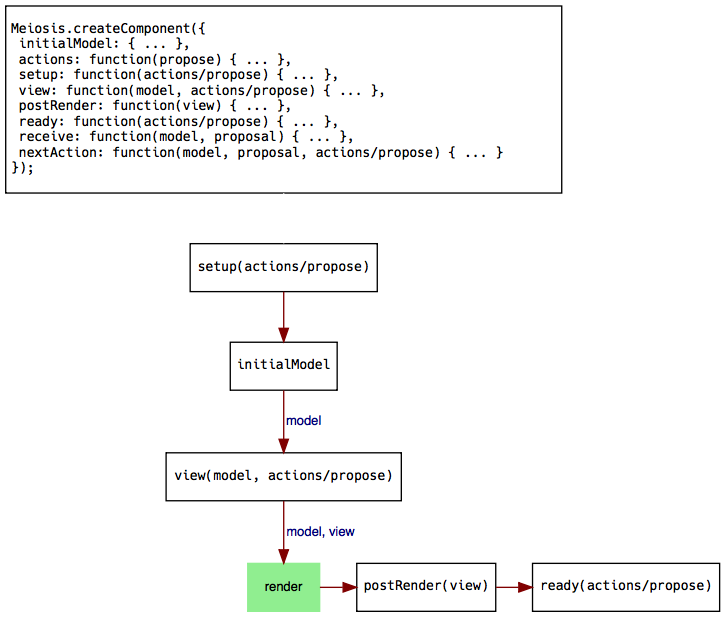
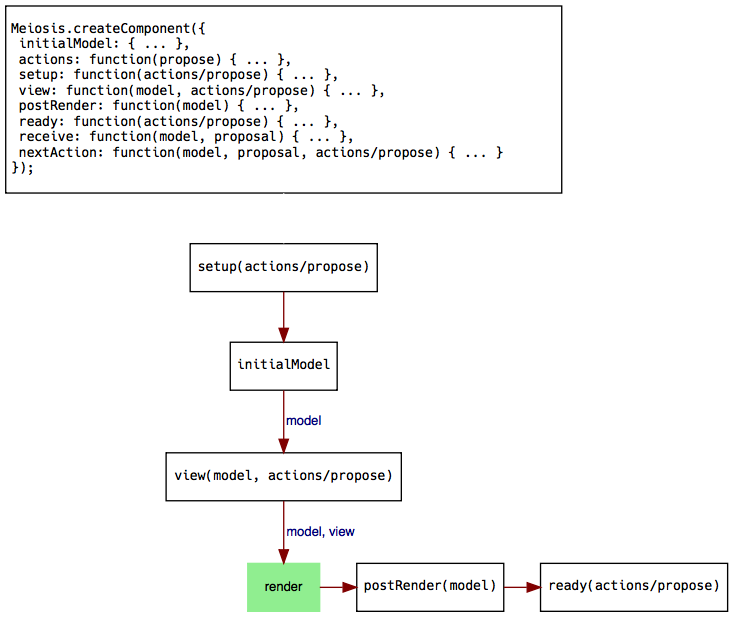
Update postRender documentation.

diff --git a/post_render_functions.md b/post_render_functions.md
@@ -1,6 +1,6 @@
 # The Post Render Function
 
-Sometimes, you might need to run some code after every render of the view. This is probably rare when using virtual DOM libraries, or reactive template libraries. They usually have their own hooks or other mechanisms for that purpose. But if you are using plain HTML or templating engine, or for any other reason you may need to run code after each render, Meiosis accepts the `postRender` function. Specify your function using the `postRender` property when calling `createComponent`, and Meiosis will call it after each render.
+Sometimes, you might need to run some code after every render of the view. If you are using plain HTML or a templating engine, you may need to run some extra code on the DOM elements. This is probably rare when using virtual DOM libraries, or reactive template libraries. They usually have their own hooks or other mechanisms for that purpose. But you may still need to run code for other reasons, such as opening a modal dialog. For these or any other reasons that you may need to run code after each render, Meiosis accepts the `postRender` function. Specify your function using the `postRender` property when calling `createComponent`, and Meiosis will call it after each render, passing in the model.
 
 ## Examples
 
